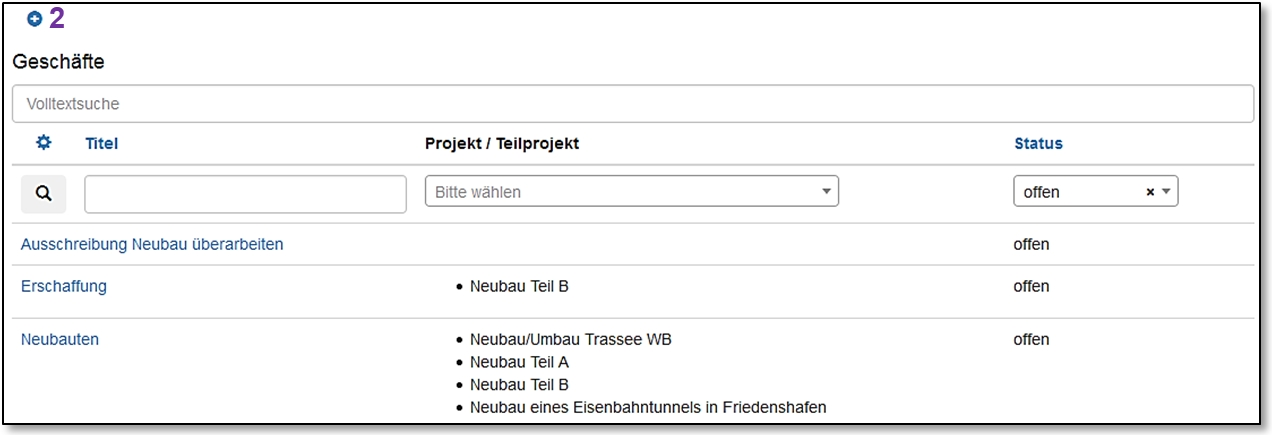
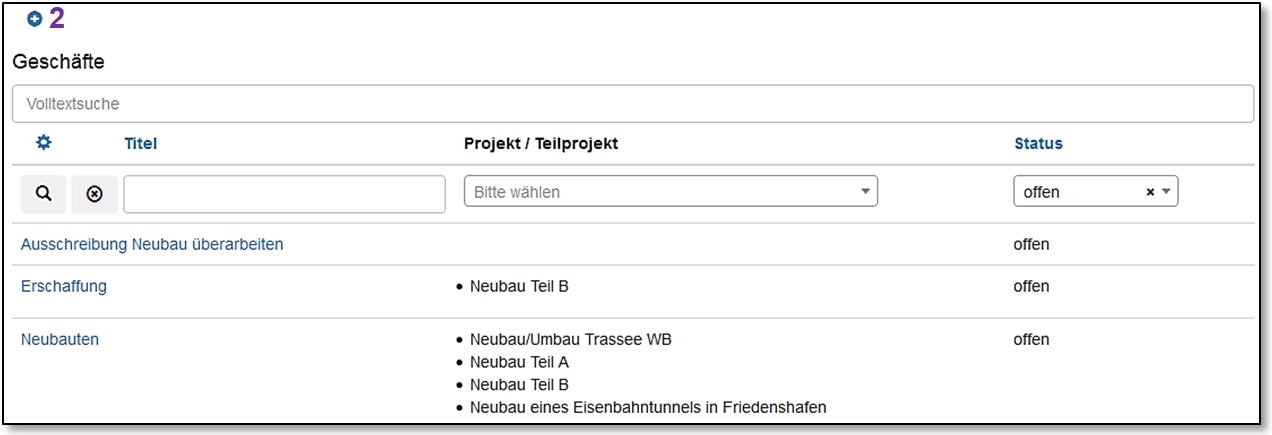
[german] Anpassungen Handbuch
Globale Anpassungen Cube 2.10 vs Handbuch v2.10 (Anpassungen in verschiedenen Modulen inkl. Printscreen-Anpassungen)
Stand: bis Kap 8 Beschaffungen

diff --git a/german/chapters/02_GettingStarted/02_GettingStarted.tex b/german/chapters/02_GettingStarted/02_GettingStarted.tex
@@ -273,8 +273,6 @@ Die folgenden Schaltflächen kommen immer wieder vor:
 \hline
 \raisebox{-1\totalheight}{\includegraphics[height=20pt]{/Icons/FilterLoeschen.jpg}} & Filter löschen: Durch Klicken auf dieses Symbol werden sämtliche Eingaben in den Suchfeldern gelöscht. \\
 \hline
-\raisebox{-1\totalheight}{\includegraphics[height=20pt]{/Icons/Blattsymbol_s.jpg}} & Blatt mit Eselsohr oben rechts: Durch Klicken auf diese Schaltfläche erzeugen Sie ein PDF einer Liste, und zwar entsprechend der aktuellen Filterung. Wenn keine Filterung aktiviert ist, erhalten Sie die gesamte Liste. \\
-\hline
 \raisebox{-1\totalheight}{\includegraphics[height=16pt]{/Icons/weitereSeiten.jpg}} & Blättern in Liste: mit dieser Schaltfläche können Sie in einer Liste vorwärts oder zurückblättern, in dem Sie auf 'Weiter' oder 'Zurück' klicken, oder eine bestimmte Seite auswählen, indem Sie auf die Seitennummer klicken. Falls die Liste mehr als fünf Seiten umfasst, werden nicht alle Seitennummern angezeigt. Klicken Sie auf 'Weiter' oder 'Zurück' bis die gewünschte Seite angewählt werden kann.  \\
 \hline
 \end{tabular}
@@ -314,7 +312,7 @@ Die folgenden Symbole haben überall im CUBE PA dieselbe Bedeutung. Solche Schal
 \hline
 \raisebox{-1\totalheight}{\includegraphics[height=12pt]{/Icons/Bearbeiten.jpg}} & Bleistift in Quadrat (klein): Mit einem Klick auf dieses Symbol öffnen Sie eine Maske, die das Bearbeiten sämtlicher Felder des entsprechenden Eintrages erlaubt. \\
 \hline
-\raisebox{-1\totalheight}{\includegraphics[height=12pt]{/Icons/Pluszeichen.jpg}} & Pluszeichen: Durch einen Klick auf ein Pluszeichen können Sie einen neuen Eintrag in einer Liste erstellen, z.B. einen zusätzlichen Teilnehmer für eine Sitzungseinladung erfassen. \\
+\raisebox{-1\totalheight}{\includegraphics[height=12pt]{/Icons/Pluszeichen.jpg}} & Pluszeichen: Durch einen Klick auf ein Pluszeichen können Sie einen neuen Eintrag in einer Liste erstellen, z.B. einen zusätzlichen Teilnehmer für eine Sitzungseinladung erfassen, Anhänge hinzufügen oder einer Person / Gruppe zusätzlich Berechtigungen erteilen. \\
 \hline
 \raisebox{-1\totalheight}{\includegraphics[height=12pt]{/Icons/Lupe.jpg}} & Lupe: Dieses Symbol steht unmittelbar bei einer Zeile / einem Eintrag in einer Liste. Mit einem Klick darauf öffnen Sie eine Maske, die das Lesen des Inhalts aller Felder des entsprechenden Datensatzes erlaubt. \\
 \hline

diff --git a/german/chapters/04_Terminplanung/04_Terminplanung.tex b/german/chapters/04_Terminplanung/04_Terminplanung.tex
@@ -2,7 +2,7 @@
 \pagebreak	
 \section{Die Terminplanung benutzen}
 \label{bkm:Ref445400921}
-In der aktuellen CUBE PA Version haben Sie die Möglichkeit Terminpläne (bspw. als PDF) hochzuladen und den Projektmitarbeitern, welche CUBE PA benutzen, zugänglich zu machen. In vorliegender Dokumentation wurden zwei Terminpläne importiert und bereitgestellt: Gesamtterminprogramm und Studienauftragsverfahren Bhf WB. \\
+In der aktuellen CUBE PA Version haben Sie die Möglichkeit Terminpläne (bspw. als PDF) hochzuladen und den Projektmitarbeitern, welche CUBE PA benutzen, zugänglich zu machen. In vorliegender Dokumentation wurden beispielhaft zwei Terminpläne importiert und bereitgestellt: 'Gesamtterminprogramm' und 'Studienauftragsverfahren'. \\
 Als zweite Funktion der Terminplanung können Sie komplexe Terminpläne, welche mit Microsoft Project erstellt wurden als .xml-File importieren und anschliessend in CUBE PA filtern und benutzerspezifische Ansichten generieren.
 
 %Die Terminplanung beschränkt sich in dern aktuellen CUBE PA Version auf das Herunterladen des Gesamtterminprogramms und das Studienauftragsverfahren Bhf WB, sowie die Filterung und entsprechenden Anzeige des Detailterminprogramms.
@@ -23,7 +23,7 @@ Wählen Sie aus dem Menü links den Punkt 'Terminplanung' und dann den gewünsch
 
 \vspace{5cm} 
 
-\subsection{Das Gesamtterminprogramm und das Studienauftragsverfahren Bhf WB}
+\subsection{Das Gesamtterminprogramm und das Studienauftragsverfahren}
 
 Bei diesen beiden Funktionen handelt es sich um das Herunterladen des entsprechenden Terminprogramms.\newline
 Wenn Sie im Menü unter Terminplan den Unterpunkt 'Gesamtterminprogramm' auswählen, erscheint folgende Ansicht (Diese Ansicht ist abhängig von der CUBE PA-Konfiguration):

diff --git a/german/CUBEPA_Handbuch.tex b/german/CUBEPA_Handbuch.tex
@@ -84,7 +84,7 @@
 \HRule \\[1.5cm]
 
 \textsf{\Large Benutzerhandbuch}\\[0.5cm] % Major heading such as course name
-\textsf{\large Version 2.10 / 17.04.2018}\\[0.5cm] % Minor heading such as course title
+\textsf{\large Version 2.10 / 04.05.2018}\\[0.5cm] % Minor heading such as course title
 
 
 \pagebreak
@@ -96,13 +96,13 @@
 \begin{tabular}{lp{12cm}}
 Auftragsnummer & BE.N.\\
 Auftraggeber & .\\
-Datum & 17.04.2018\\
+Datum & 04.05.2018\\
 Version & 2.10\\
 Autoren & Dieter Schopfer, Benjamin Nyffenegger, Rayane Zahreddine, Adrian Johner, Markus Schafroth, Simon Heimberg\\
 Freigabe & Markus Schafroth\\
 Verteilen & .\\
 Datei & .\\
-Seitenzahl & 181\\
+Seitenzahl & 180\\
 Copyright & \copyright{ Emch+Berger AG Bern}\\
 \end{tabular}
 
@@ -151,7 +151,7 @@ Copyright & \copyright{ Emch+Berger AG Bern}\\
 \include{chapters/06_Geschaefte/06_Geschaefte} 									% aktuell nur WBZU
 \include{chapters/06_Projektmanagement/06_Projektmanagement}    % in Vorbereitung März 2018
 \include{chapters/07_Beschaffungswesen/07_Beschaffungswesen}		% Beschaffung wird nur generisch beschrieben -> wo nötig kundenspezifische QuickRef
-\include{chapters/08_Anforderungen/08_Anforderungen}				 		% aktuell nur WBZU
+% \include{chapters/08_Anforderungen/08_Anforderungen}				 		% wird wohl ersetzt durch 06 Projektmangt..
 \include{chapters/09_Qualitaetsmanagement/09_Qualitaetsmanagement} % --> Bezieht sich aufs Handbuch aktuell nur WBZU resp. ist dieses Thema im Qualitätsmanagement enthalten?
 \include{chapters/10_CRM/10_CRM}
 \include{chapters/11_Dokumentenablage/11_Dokumentenablage}

diff --git a/german/chapters/05_Sitzungswesen/05_Sitzungswesen.tex b/german/chapters/05_Sitzungswesen/05_Sitzungswesen.tex
@@ -296,6 +296,8 @@ Alle Einträge, welche mit den Such-Begriffen übereinstimmen, werden angezeigt.
 \hline
 \raisebox{-.25\totalheight}{\includegraphics[height=12pt]{/Icons/Bueroklammer.jpg}} & Bei dieser Sitzungseinladung wurden Beilagen angehängt \\
 \hline
+\raisebox{-.25\totalheight}{\includegraphics[height=12pt]{/Icons/Fahne.jpg}} & Die Pendenzliste öffnen\\
+\hline
 \end{tabular}
 
 \vspace{\baselineskip}
@@ -303,13 +305,14 @@ Alle Einträge, welche mit den Such-Begriffen übereinstimmen, werden angezeigt.
 Suchen Sie in der Liste die betreffende Sitzung und klicken Sie auf das Listensymbol \includegraphics[height=12pt]{/Icons/Listensymbol.jpg} rechts. Es erscheint die Ansicht 'Protokoll bearbeiten' mit der Maske für das Erfassen des Protokolls.
 
 \begin{figure}[H]
-\vspace{-20pt}  
+\vspace{-8pt}  
 \center{\includegraphics[width=1\linewidth]{../chapters/05_Sitzungswesen/pictures/5-2-1_ProtokollBearbeiten.jpg}}
 \caption{Protokoll bearbeiten}
 % \label{fig:speciation}
 \end{figure}
 
 \begin{figure}[H]
+\vspace{-15pt}  
 \center{\includegraphics[width=0.4\linewidth]{../chapters/05_Sitzungswesen/pictures/5-2-1_Uebernehmen_top.jpg}}
 % \caption{Das Menü in CUBE PA}
 % \label{fig:speciation}

diff --git a/german/chapters/06_Geschaefte/06_Geschaefte.tex b/german/chapters/06_Geschaefte/06_Geschaefte.tex
@@ -15,7 +15,7 @@ Innerhalb jedes Teilgeschäfts lässt sich die Historie in Form von Einträgen a
 
 \subsection{Ein Geschäft erfassen}
 
-\begin{wrapfigure}[3]{l}{6.5cm}   % [x] Wie manche Zeile soll sich um die Grafik "brechen"
+\begin{wrapfigure}[1]{l}{6.5cm}   % [x] Wie manche Zeile soll sich um die Grafik "brechen"
   \vspace{-35pt}      % Grundwert war 20; mit 30 schön oben beim Text ausgerichtet
   \begin{center}
     \includegraphics[width=1\linewidth]{../chapters/06_Geschaefte/pictures/6-1_Menu_Geschaefte.jpg}
@@ -27,7 +27,8 @@ Innerhalb jedes Teilgeschäfts lässt sich die Historie in Form von Einträgen a
 
 Wählen Sie im Menü links den Punkt 'Geschäfte'. \\
 
-\vspace{6cm}
+% \vspace{6cm}
+\pagebreak
 
 Daraufhin erscheint die Liste der Geschäfte:
 
